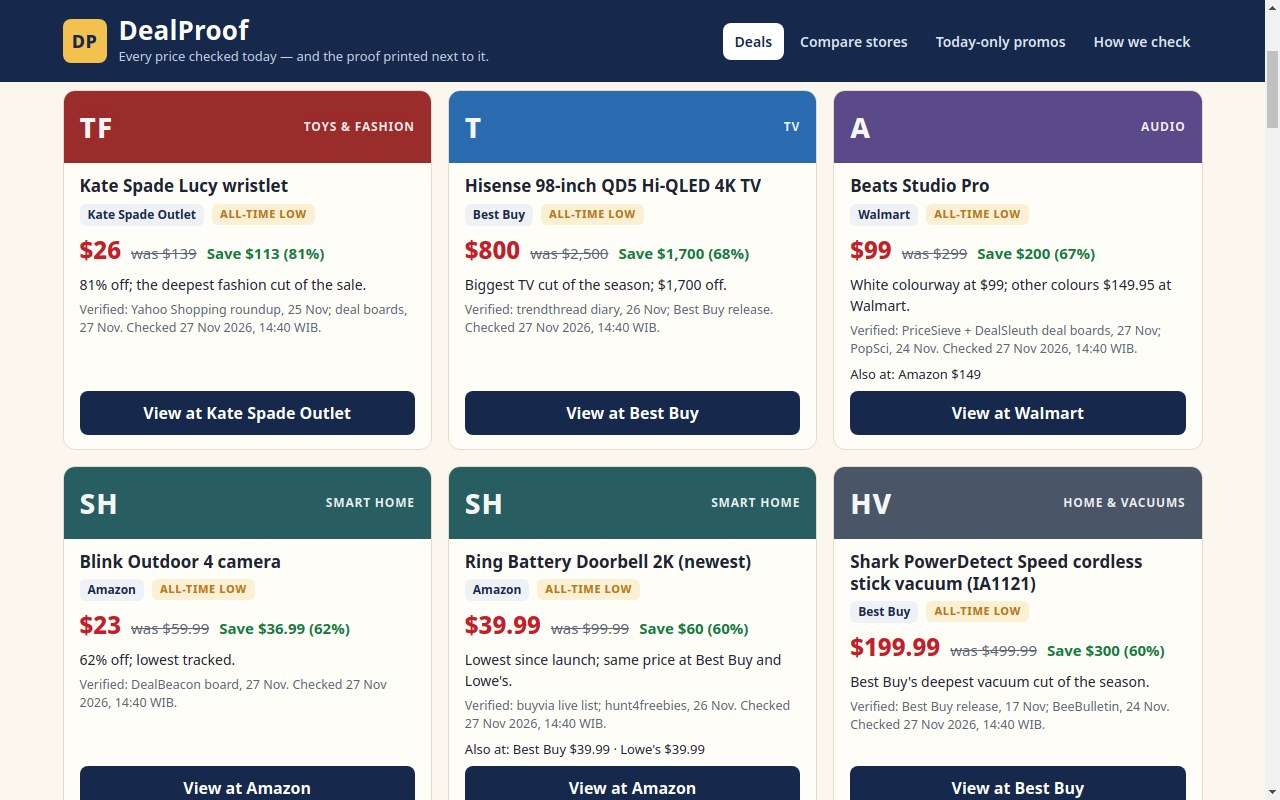
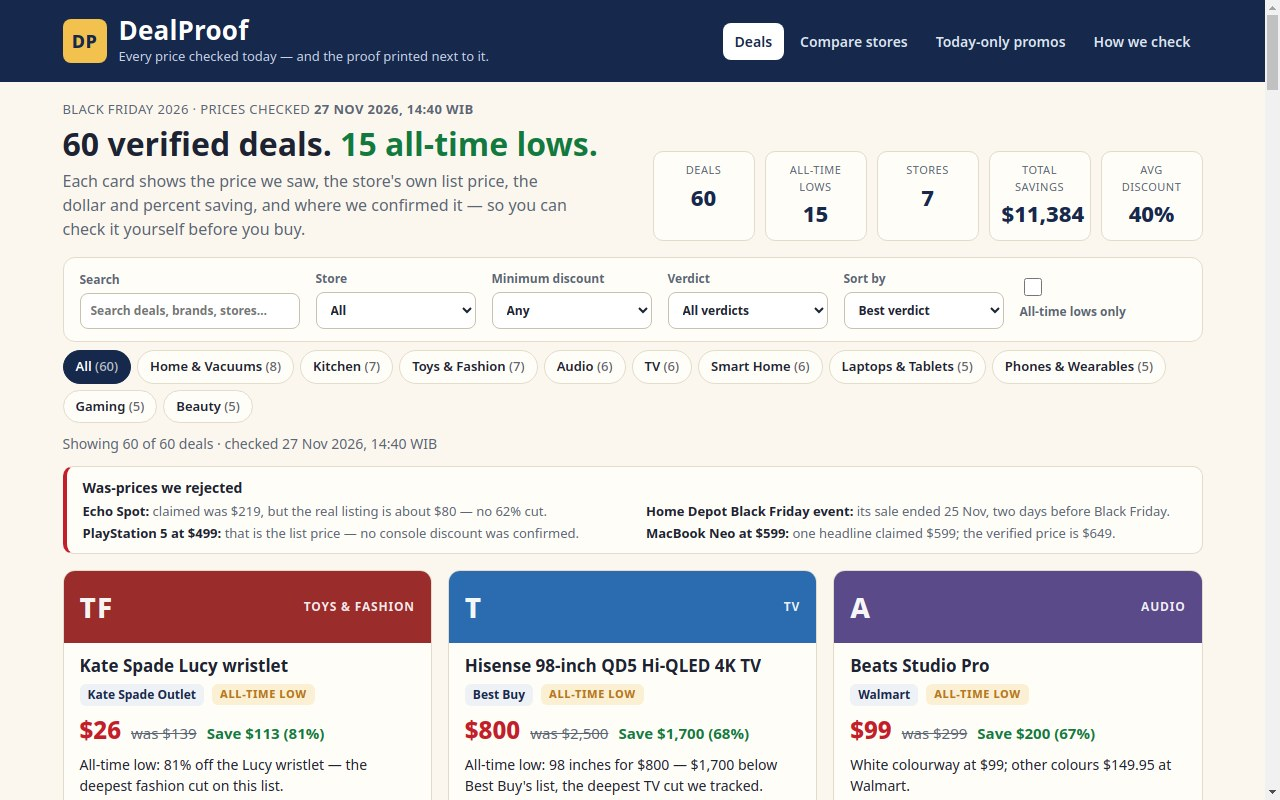
Quantify deal evidence + add rejected was-prices strip; re-shoot S1/S3/S4

diff --git a/app/data.js b/app/data.js
@@ -106,7 +106,7 @@ export const deals = [
     was: 2500,
     verdict: "low",
     url: "https://www.bestbuy.com/site/searchpage.jsp?st=Hisense+98+QD5",
-    evidence: "Biggest TV cut of the season; $1,700 off.",
+    evidence: "All-time low: 98 inches for $800 — $1,700 below Best Buy's list, the deepest TV cut we tracked.",
     source: "trendthread diary, 26 Nov; Best Buy release",
     checked: CHECKED,
   },
@@ -253,7 +253,7 @@ export const deals = [
     was: 399,
     verdict: "low",
     url: "https://www.amazon.com/s?k=Apple+Watch+Series+12+42mm",
-    evidence: "New Amazon all-time low; $100 off every size.",
+    evidence: "42mm at $299 — $100 off list.",
     source: "9to5Toys, 23-24 Nov; trendthread diary, 27 Nov",
     checked: CHECKED,
   },
@@ -266,7 +266,7 @@ export const deals = [
     was: 249,
     verdict: "low",
     url: "https://www.amazon.com/s?k=Apple+Watch+SE+3+40mm",
-    evidence: "$70 off the new SE.",
+    evidence: "All-time low; $70 off the new SE 3.",
     source: "Deal Board, 27 Nov",
     checked: CHECKED,
   },
@@ -435,7 +435,7 @@ export const deals = [
     was: 59.99,
     verdict: "low",
     url: "https://www.amazon.com/s?k=Blink+Outdoor+4",
-    evidence: "62% off; lowest tracked.",
+    evidence: "All-time low at $23 — 62% off.",
     source: "DealBeacon board, 27 Nov",
     checked: CHECKED,
   },
@@ -475,7 +475,7 @@ export const deals = [
     was: 499.99,
     verdict: "low",
     url: "https://www.bestbuy.com/site/searchpage.jsp?st=Shark+PowerDetect+Speed",
-    evidence: "Best Buy's deepest vacuum cut of the season.",
+    evidence: "Best Buy's own Black Friday release lists this as its deepest vacuum cut of the season.",
     source: "Best Buy release, 17 Nov; BeeBulletin, 24 Nov",
     checked: CHECKED,
   },
@@ -488,7 +488,7 @@ export const deals = [
     was: 599.99,
     verdict: "strong",
     url: "https://www.amazon.com/s?k=Dyson+V9+Motorbar",
-    evidence: "$330 off; biggest dollar saving in home.",
+    evidence: "$330 off the V9 Motorbar — 55% below list.",
     source: "PopSci, 24 Nov",
     checked: CHECKED,
   },
@@ -527,7 +527,7 @@ export const deals = [
     was: 1199.99,
     verdict: "strong",
     url: "https://www.amazon.com/s?k=iRobot+Roomba+Max+875",
-    evidence: "$400 off the flagship Roomba.",
+    evidence: "$400.99 off the flagship Roomba — the biggest dollar saving in Home & Vacuums.",
     source: "PopSci, 24 Nov",
     checked: CHECKED,
   },
@@ -606,7 +606,7 @@ export const deals = [
     was: 499.99,
     verdict: "strong",
     url: "https://www.amazon.com/s?k=KitchenAid+Artisan+5+quart+stand+mixer",
-    evidence: "Best price in over a year in most colours.",
+    evidence: "$150 off list; Target matches at $349.99.",
     source: "PopSci, 24 Nov; BuzzFeed",
     checked: CHECKED,
     alsoAt: [{ store: "Target", price: 349.99 }],
@@ -646,7 +646,7 @@ export const deals = [
     was: 699.95,
     verdict: "strong",
     url: "https://www.amazon.com/s?k=Breville+Barista+Express",
-    evidence: "$205 off; grinder built in (BES870XL).",
+    evidence: "$205 off list; Target has it at $499.95 — $5 more.",
     source: "PopSci, 24 Nov",
     checked: CHECKED,
     alsoAt: [{ store: "Target", price: 499.95 }],
@@ -687,7 +687,7 @@ export const deals = [
     was: 449.99,
     verdict: "strong",
     url: "https://www.amazon.com/s?k=Dyson+Supersonic+Nural",
-    evidence: "$100 off the smart dryer (Plum/Copper).",
+    evidence: "$100 off; Sam's Club lists $279.98 for members — $70 less behind a membership wall.",
     source: "PopSci, 24 Nov",
     checked: CHECKED,
   },
@@ -805,7 +805,7 @@ export const deals = [
     was: 139,
     verdict: "low",
     url: "https://www.katespadeoutlet.com/search?q=Lucy+wristlet",
-    evidence: "81% off; the deepest fashion cut of the sale.",
+    evidence: "All-time low: 81% off the Lucy wristlet — the deepest fashion cut on this list.",
     source: "Yahoo Shopping roundup, 25 Nov; deal boards, 27 Nov",
     checked: CHECKED,
   },
@@ -818,7 +818,7 @@ export const deals = [
     was: 45,
     verdict: "low",
     url: "https://www.target.com/s?searchTerm=Stanley+Quencher+40oz",
-    evidence: "True 50% off retail MSRP.",
+    evidence: "All-time low at $22.50 — half the $45 list price.",
     source: "PriceSieve board, 27 Nov",
     checked: CHECKED,
   },
@@ -871,4 +871,13 @@ export const compare = [
   { id: "breville-barista-express", note: "Amazon is $5 under Target for the same machine." },
   { id: "steelseries-nova-pro", note: "Woot is $46 under Amazon for the same headset." },
   { id: "ea-fc-27-ps5", note: "Amazon is $0.97 under Walmart — effectively tied." },
+];
+
+// Was-prices we rejected — fake or stale "deals" found while checking.
+// Shown on the home page so shoppers see what we refused to list.
+export const rejected = [
+  { item: "Echo Spot", why: "claimed was $219, but the real listing is about $80 — no 62% cut." },
+  { item: "Home Depot Black Friday event", why: "its sale ended 25 Nov, two days before Black Friday." },
+  { item: "PlayStation 5 at $499", why: "that is the list price — no console discount was confirmed." },
+  { item: "MacBook Neo at $599", why: "one headline claimed $599; the verified price is $649." },
 ];

diff --git a/serve.ts b/serve.ts
@@ -1,0 +1,64 @@
+// A tiny static server for app/ (Node 22, standard library only), so the site can be run locally without a
+// build step: `node serve.ts` serves app/ on http://localhost:8080 (`--port <n>` for another port). It sends the MIME
+// types a browser needs, refuses any path outside app/, and otherwise does nothing clever: this is a development
+// convenience, not a web server for the internet.
+import { createReadStream, statSync } from 'node:fs';
+import { createServer } from 'node:http';
+import { extname, join, normalize, resolve, sep } from 'node:path';
+import { fileURLToPath } from 'node:url';
+
+const root = resolve(fileURLToPath(new URL('./app', import.meta.url)));
+const args = process.argv.slice(2);
+const portIndex = args.indexOf('--port');
+const requested = portIndex === -1 ? 8080 : Number(args[portIndex + 1]);
+const port = Number.isInteger(requested) && requested > 0 && requested < 65536 ? requested : 8080;
+
+const MIME: Record<string, string> = {
+  '.html': 'text/html; charset=utf-8',
+  '.js': 'text/javascript; charset=utf-8',
+  '.mjs': 'text/javascript; charset=utf-8',
+  '.css': 'text/css; charset=utf-8',
+  '.json': 'application/json; charset=utf-8',
+  '.svg': 'image/svg+xml',
+  '.png': 'image/png',
+  '.jpg': 'image/jpeg',
+  '.jpeg': 'image/jpeg',
+  '.webp': 'image/webp',
+  '.ico': 'image/x-icon',
+  '.woff2': 'font/woff2',
+  '.webmanifest': 'application/manifest+json',
+};
+
+createServer((request, response) => {
+  const url = new URL(request.url ?? '/', 'http://localhost');
+  let pathname: string;
+  try {
+    pathname = decodeURIComponent(url.pathname);
+  } catch {
+    response.writeHead(400).end('bad request');
+    return;
+  }
+  if (pathname.endsWith('/')) pathname += 'index.html';
+  const file = resolve(join(root, normalize(pathname)));
+  if (file !== root && !file.startsWith(root + sep)) {
+    response.writeHead(403).end('forbidden');
+    return;
+  }
+  let size: number;
+  try {
+    const stats = statSync(file);
+    if (!stats.isFile()) throw new Error('not a file');
+    size = stats.size;
+  } catch {
+    response.writeHead(404).end('not found');
+    return;
+  }
+  response.writeHead(200, {
+    'content-type': MIME[extname(file).toLowerCase()] ?? 'application/octet-stream',
+    'content-length': size,
+    'cache-control': 'no-store',
+  });
+  createReadStream(file).pipe(response);
+}).listen(port, '127.0.0.1', () => {
+  console.log(`app/ is on http://localhost:${port}`);
+});

diff --git a/app/views.js b/app/views.js
@@ -1,7 +1,7 @@
 // Views: render every route into #view. Plain DOM building, no
 // framework, no network calls. All data comes from data.js.
 
-import { deals, promos, compare, CHECKED_LABEL } from "./data.js";
+import { deals, promos, compare, rejected, CHECKED_LABEL } from "./data.js";
 import {
   VERDICT_LABELS,
   savings,
@@ -216,6 +216,19 @@ export function viewDeals(f, onChange) {
 
   const shown = sortDeals(filterDeals(deals, f), f.sort);
   frag.append(el("p", "result-count", `Showing ${shown.length} of ${deals.length} deals · checked ${CHECKED_LABEL}`));
+
+  const audit = el("section", "audit-strip");
+  audit.setAttribute("aria-label", "Was-prices we rejected");
+  audit.append(el("h3", null, "Was-prices we rejected"));
+  const aul = el("ul");
+  for (const r of rejected) {
+    const li = el("li");
+    li.append(el("strong", null, r.item + ": "));
+    li.append(document.createTextNode(r.why));
+    aul.append(li);
+  }
+  audit.append(aul);
+  frag.append(audit);
 
   const grid = el("div", "grid");
   if (!shown.length) {

diff --git a/app/style.css b/app/style.css
@@ -96,6 +96,16 @@ a { color: var(--navy-2); }
 .pill .n { opacity: .7; font-weight: 500; }
 .result-count { margin: 10px 0 0; color: var(--muted); font-size: 14px; }
 
+/* Rejected was-prices strip */
+.audit-strip {
+  background: var(--paper-2); border: 1px solid var(--line); border-left: 4px solid var(--red);
+  border-radius: 10px; padding: 10px 16px; margin: 12px 0 0;
+}
+.audit-strip h3 { margin: 0 0 4px; font-size: 14px; }
+.audit-strip ul { margin: 0; padding-left: 0; list-style: none; display: grid; grid-template-columns: 1fr 1fr; gap: 2px 24px; }
+.audit-strip li { font-size: 13px; color: var(--muted); }
+.audit-strip li strong { color: var(--ink); }
+
 /* Deal grid + cards */
 .grid {
   display: grid; grid-template-columns: repeat(auto-fill, minmax(300px, 1fr));
